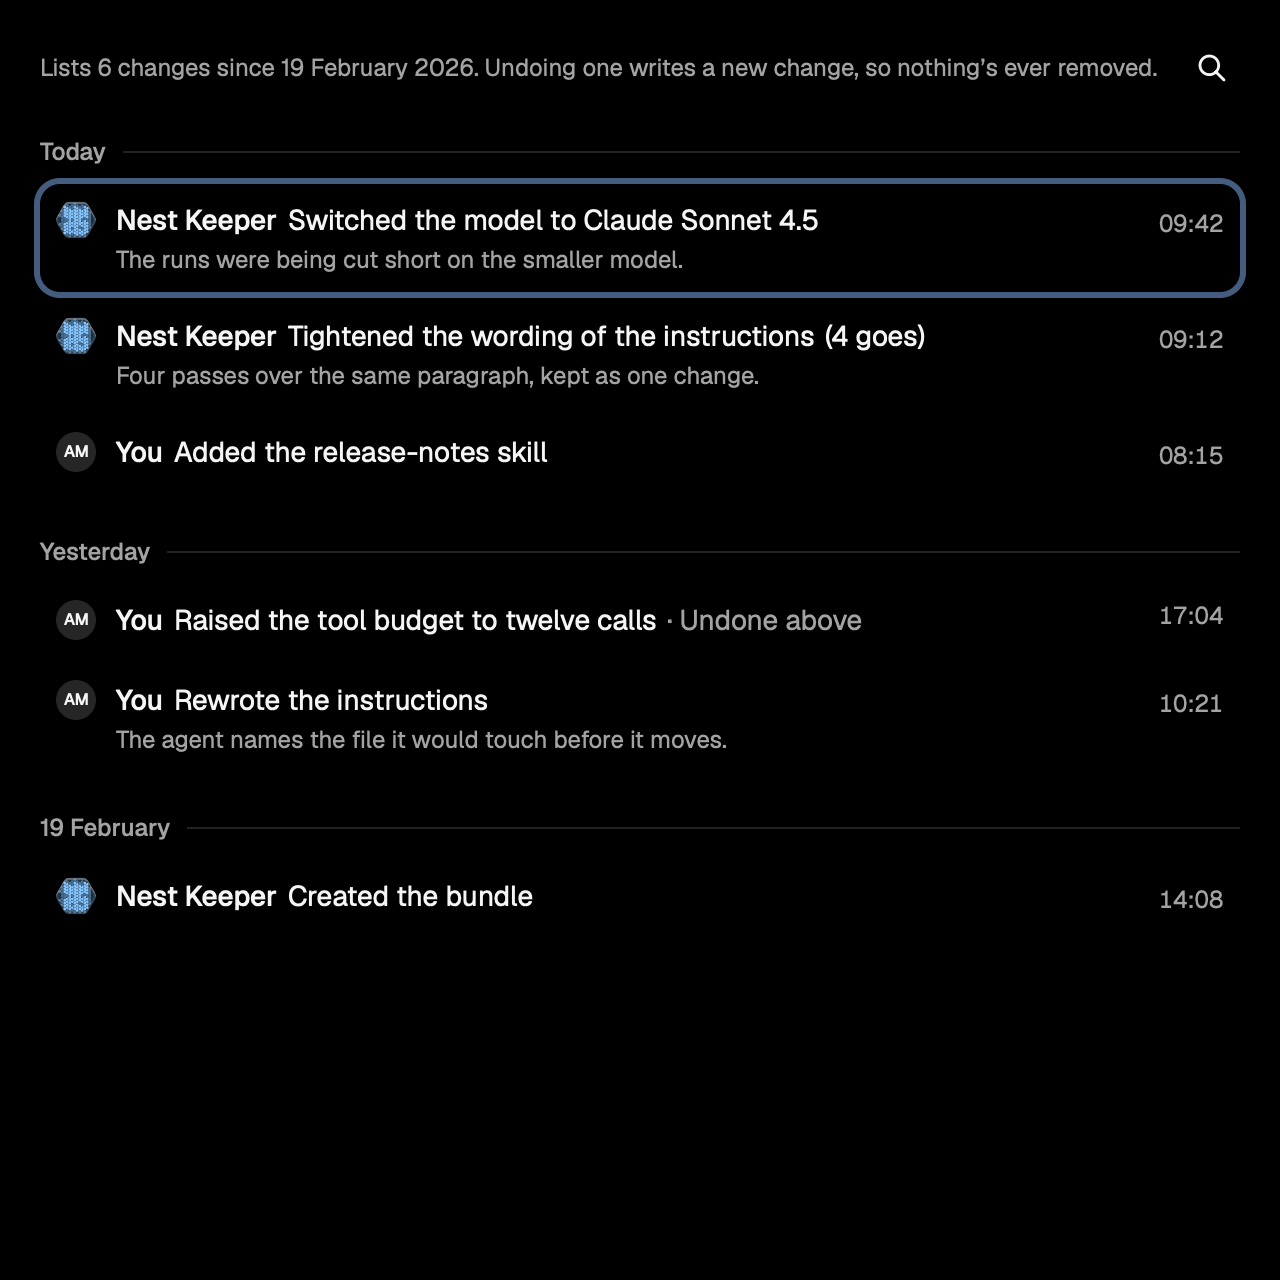
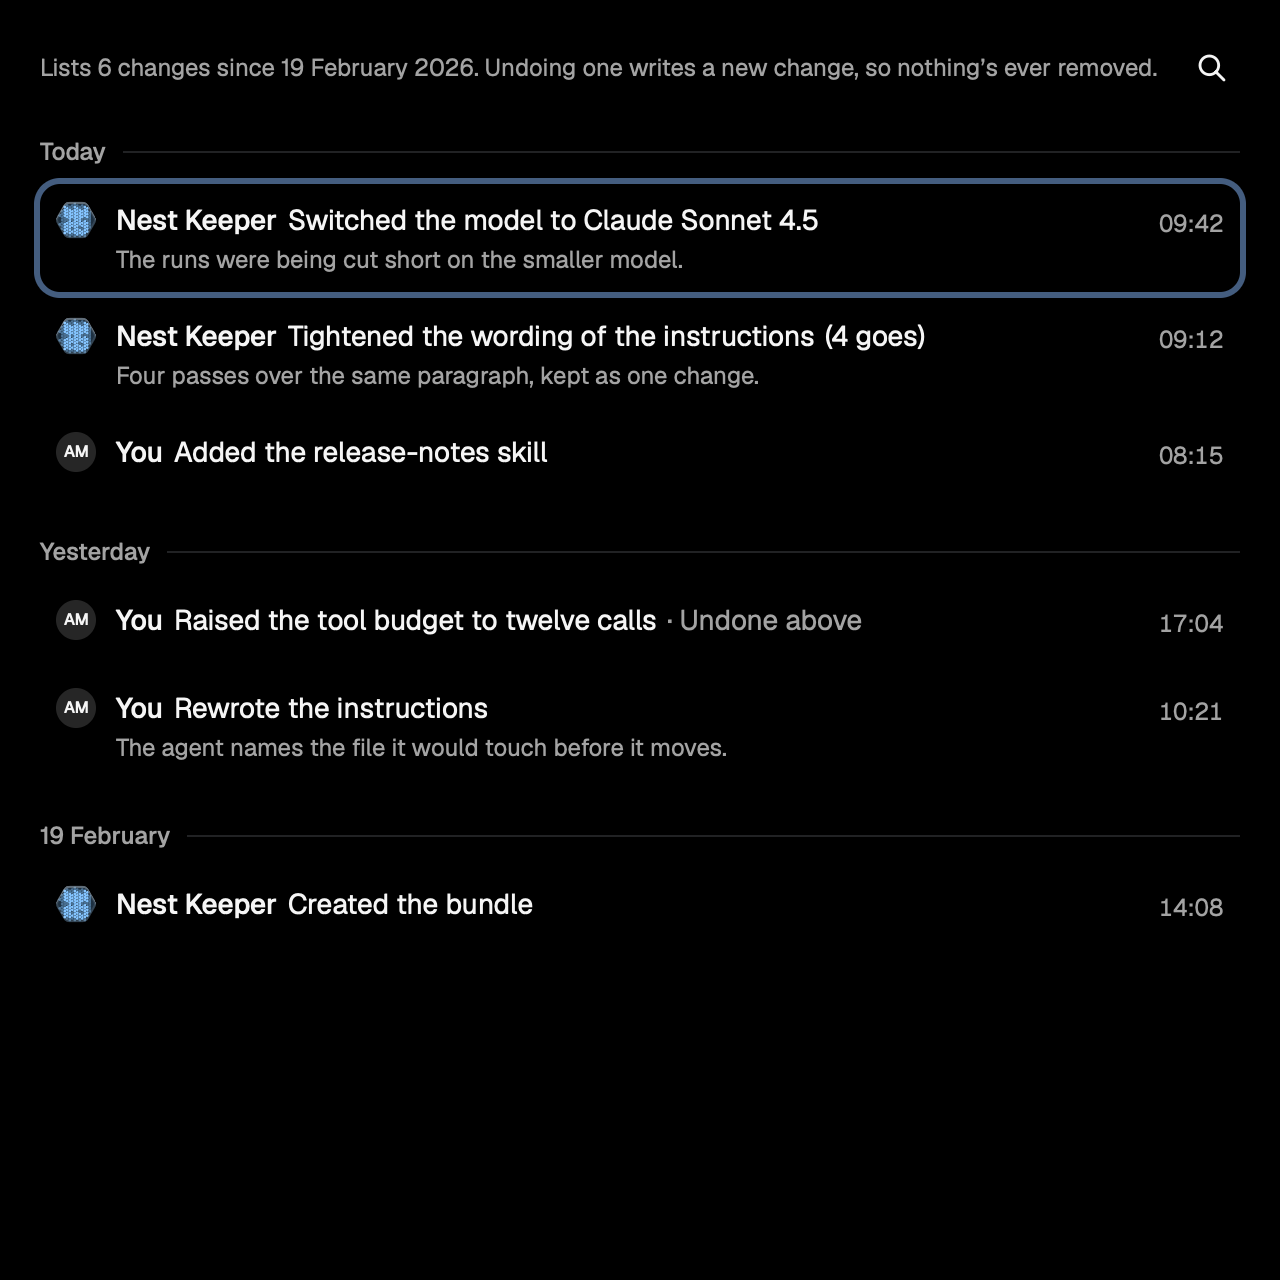
fix(rune-preview): keep the History undo slot on undone rows so the times stay aligned (OPE-1984)

diff --git a/apps/rune-preview/kit/src/surfaces/s10_agent_settings/history.rs b/apps/rune-preview/kit/src/surfaces/s10_agent_settings/history.rs
@@ -1,4 +1,4 @@
-use rune::{Cursor, El, TextEdit, TextStyle, col, icon, row, text};
+use rune::{Cursor, El, TextEdit, TextStyle, col, el, icon, row, text};
 
 use super::parts::{
 	Density, PANEL_GAP, PANEL_INSET, SMALL_GLYPH, bar, button, empty, notice, rule, skeleton_rows,
@@ -20,6 +20,8 @@ use crate::tokens::{
 
 const AUTHOR_MARK: f32 = SPACING * 5.0;
 const TIME_WIDTH: f32 = SPACING * 10.0;
+const DIALOG_UNDO_SLOT: f32 = SPACING * 6.0;
+const PAGE_UNDO_SLOT: f32 = SPACING * 3.5;
 const ROW_INSET: f32 = SPACING * 2.0;
 const DIFF_TINT: f32 = 0.15;
 const GUTTER: f32 = SPACING * 8.0;
@@ -221,9 +223,14 @@ fn change_row<S: Host>(t: &Tokens, density: Density, list: &HistoryList, change:
 		.color(t.muted_foreground)
 		.w(TIME_WIDTH)
 		.align(rune::Align::End);
+	let slot = match density {
+		Density::Dialog => DIALOG_UNDO_SLOT,
+		Density::Page => PAGE_UNDO_SLOT,
+	};
+	let undo_slot = el().size(slot, slot).center().children(undo);
 	let trailing = match density {
-		Density::Dialog => row().gap(SPACING * 2.0).center_y().children(undo).child(time),
-		Density::Page => row().gap(SPACING * 2.0).center_y().child(time).children(undo),
+		Density::Dialog => row().gap(SPACING * 2.0).center_y().child(undo_slot).child(time),
+		Density::Page => row().gap(SPACING * 2.0).center_y().child(time).child(undo_slot),
 	};
 	let item = row()
 		.key(format!("history-change-{}", change.id))
